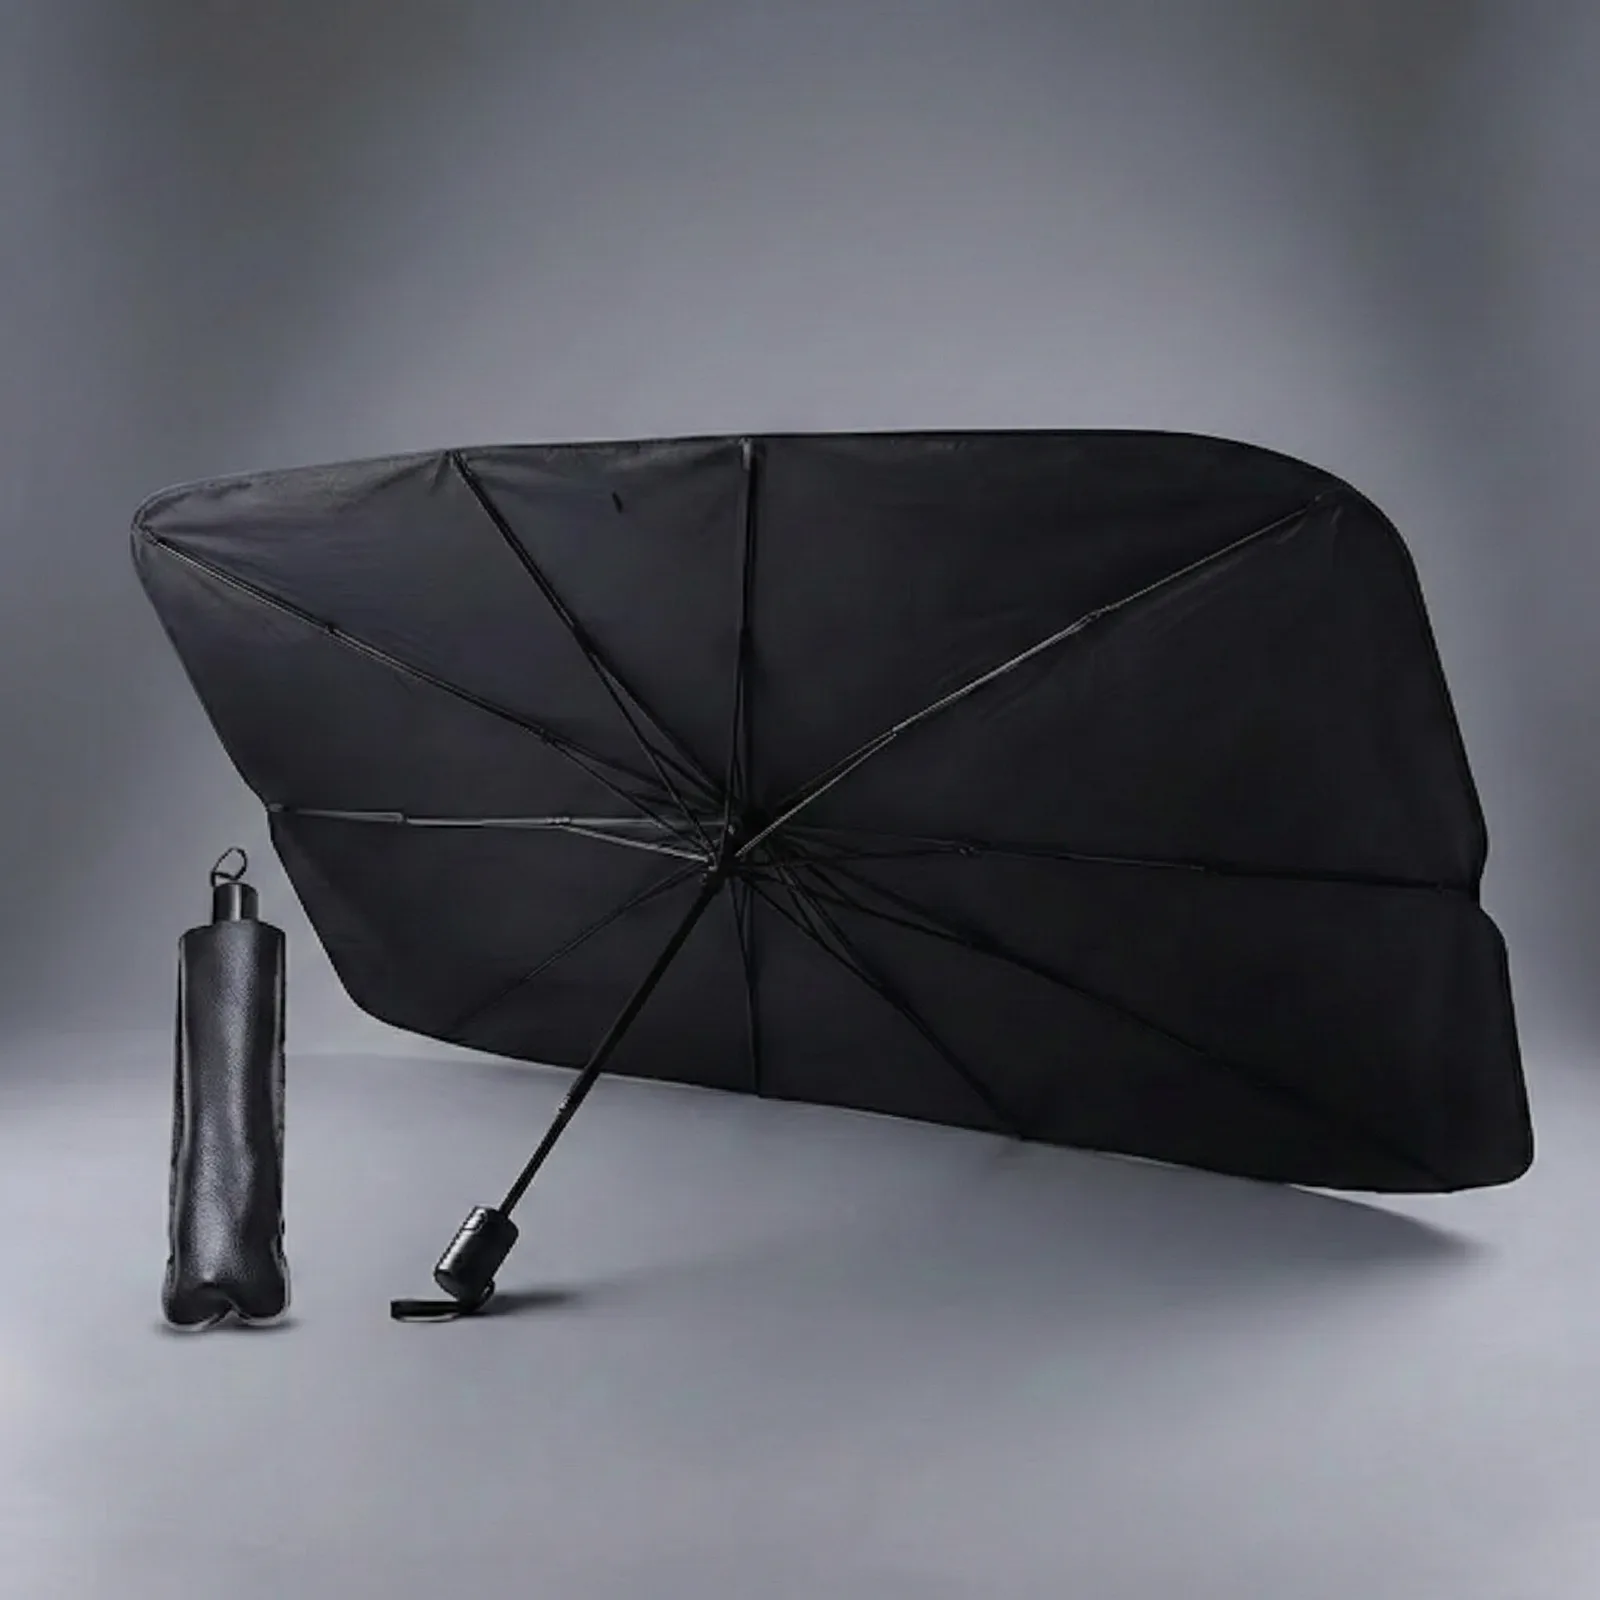
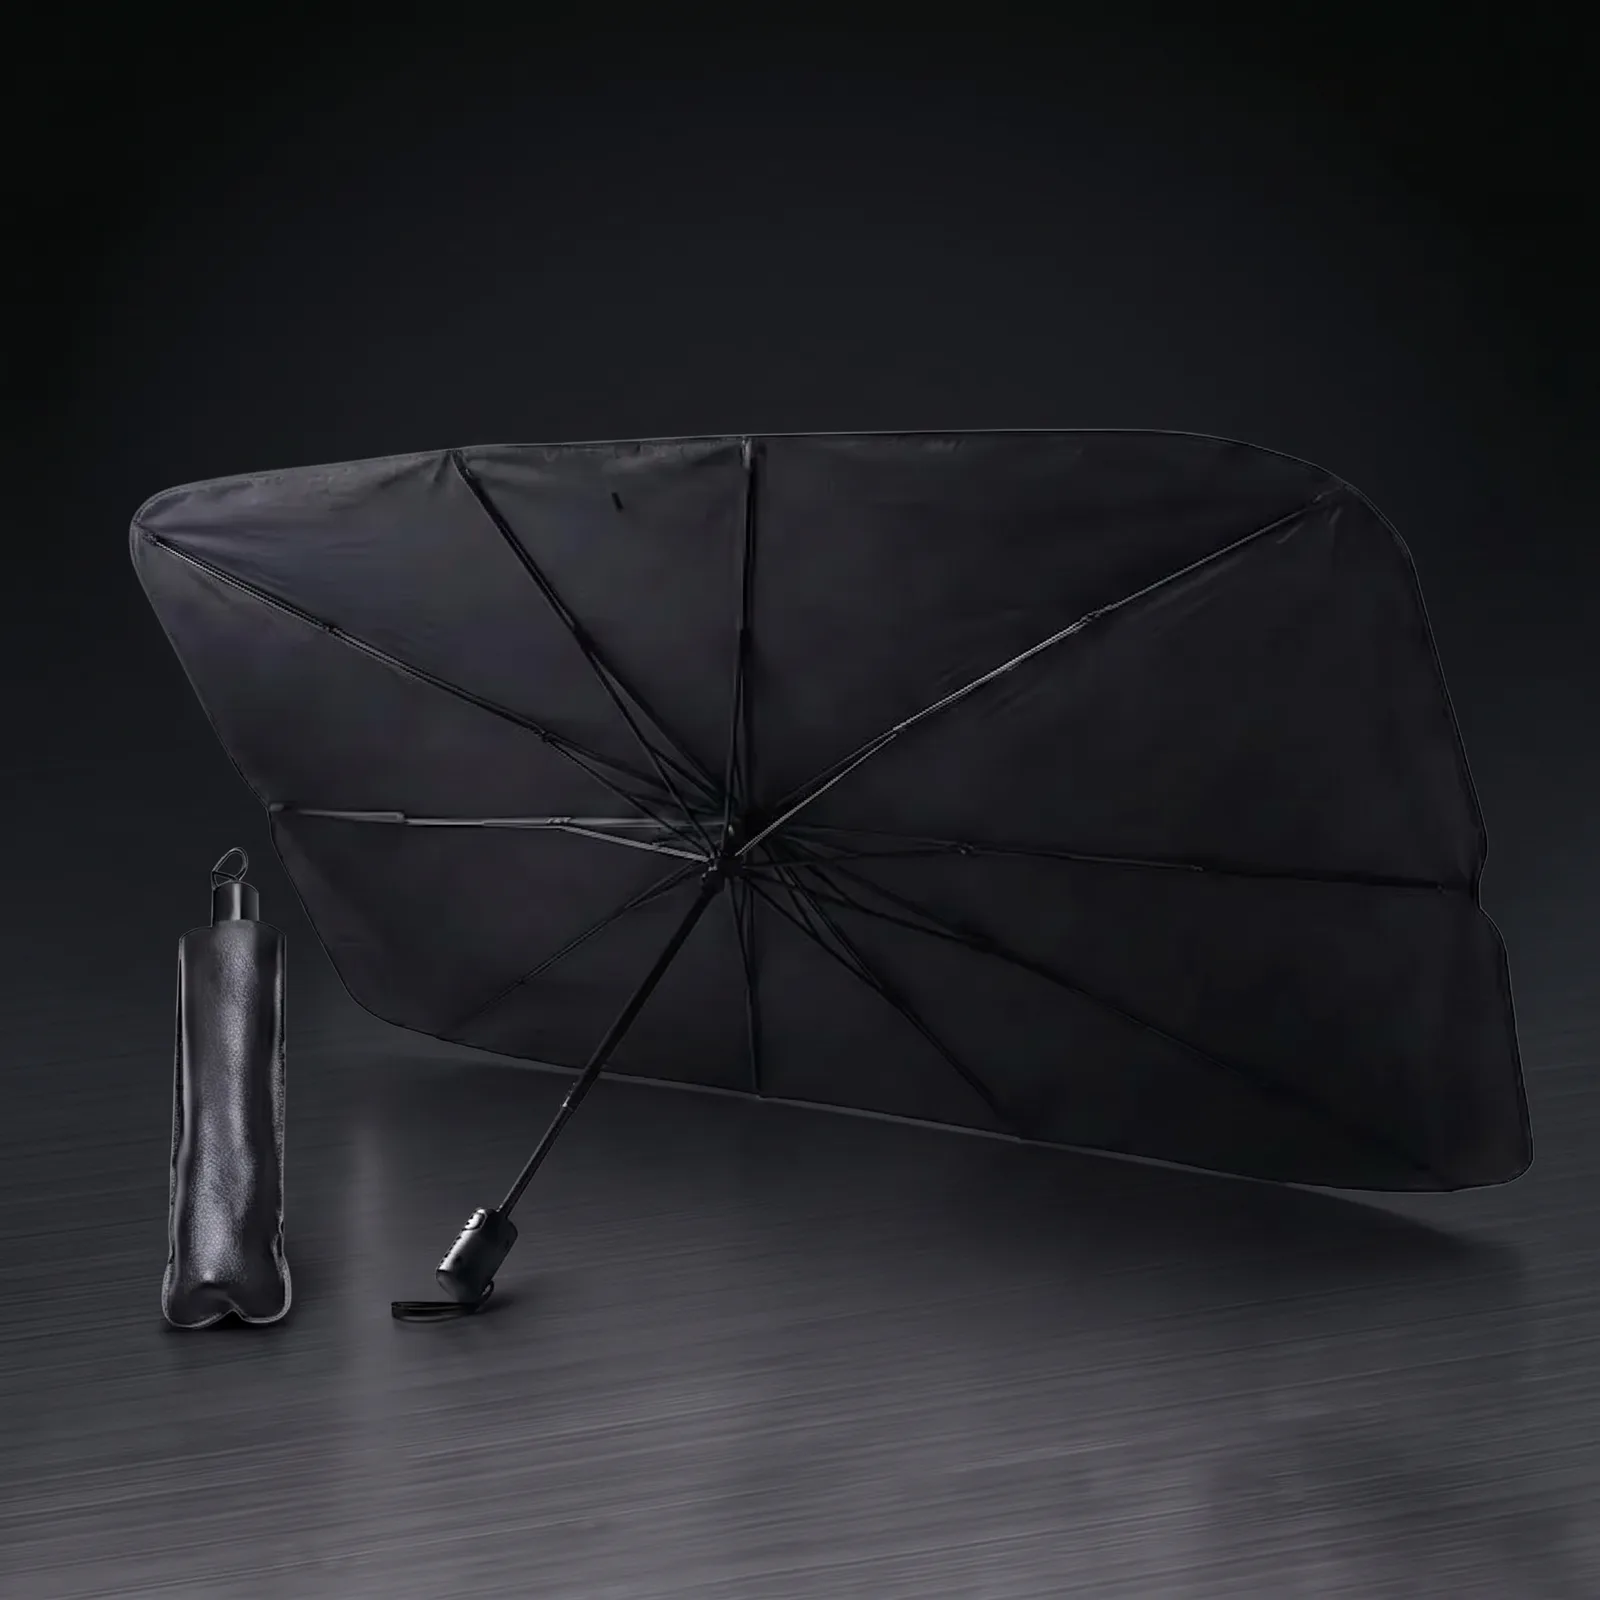
feat(tienda): fotos de producto redondeadas y hero nuevo del parasol
Las fotos van despegadas 8px del borde de la card y con radio propio, así
el redondeo se ve en las cuatro esquinas y no sólo en las de arriba, que
eran las que ya daba el `rounded-2xl` de la card.

Con el radio solo no alcanzaba: el degradado de la caja cerraba en #0F0F10
contra una card en #0A0A0A, prácticamente el mismo negro, así que las
esquinas quedaban invisibles. Ahora cierra en #191B1F y la caja se lee como
una superficie aparte.

Se va el `scale` de la foto en hover: peleaba con el `-translate-y` de la
card y quedaban dos animaciones encimadas. Queda sólo el levantado.

El inset dejó los tags 4px cortos y partían en dos líneas, así que el
padding de esa fila baja de 12 a 8px. Con eso entraban todos menos
"APERTURA EN 3 SEGUNDOS", que pasa a "ABRE EN 3 SEGUNDOS". Medido: los seis
tags en una línea.

Hero del parasol: la imagen nueva viene con fondo oscuro en vez del gris
claro, así que el producto se funde con la página en vez de recortarse
contra un rectángulo gris. De 2048px y 1,6 MB en jpeg a 1600px y 54 KB en
webp. Reemplaza el archivo, así que también cambia en el bloque de
beneficios y en la card de /tienda, que apuntan al mismo lugar.

diff --git a/components/commerce/ProductCard.tsx b/components/commerce/ProductCard.tsx
@@ -49,16 +49,24 @@ export function ProductCard({ product }: { product: StoreProduct }) {
     >
       {/* El contenedor cuadrado reserva el espacio antes de que cargue la
           imagen, así la grilla no salta (mismo patrón que HowItWorks). */}
-      <div className="relative aspect-square w-full overflow-hidden bg-[radial-gradient(circle_at_50%_38%,#26282C,#0F0F10_72%)]">
+      {/* `m-2 mb-0` + radio propio: la foto queda despegada del borde de la
+          card, así el redondeo se ve en las cuatro esquinas y no sólo en las
+          de arriba, que son las que ya daba el `rounded-2xl` de la card.
+          El degradado tiene que cerrar MÁS CLARO que el fondo de la card
+          (#0A0A0A): con el anterior, que terminaba en #0F0F10, las esquinas
+          redondeadas quedaban invisibles por falta de contraste. */}
+      <div className="relative m-2 mb-0 aspect-square overflow-hidden rounded-xl bg-[radial-gradient(circle_at_50%_38%,#31343A,#191B1F_78%)]">
         <Image
           src={product.image}
           alt={product.title}
           fill
           sizes="(max-width: 640px) 50vw, (max-width: 1024px) 33vw, 25vw"
-          className="object-contain p-5 transition duration-500 group-hover:scale-105 sm:p-6"
+          className="object-contain p-5 sm:p-6"
         />
 
-        <div className="pointer-events-none absolute inset-x-0 top-0 flex items-start justify-between gap-2 p-3">
+        {/* p-2 y no p-3: el inset de la foto dejó los tags 4px cortos y
+            partían en dos líneas. */}
+        <div className="pointer-events-none absolute inset-x-0 top-0 flex items-start justify-between gap-2 p-2">
           {/* El tag de spec es largo y en la card de 2 columnas de mobile se
               parte en tres líneas. Ahí queda sólo el de variante. */}
           <span className="hidden sm:block">
@@ -105,14 +113,14 @@ export function ComingSoonCard({
 }) {
   return (
     <div className="flex flex-col overflow-hidden rounded-2xl border border-dashed border-ink-700 bg-ink-950/60">
-      <div className="relative aspect-square w-full overflow-hidden bg-[radial-gradient(circle_at_50%_38%,#1B1C1F,#0C0C0D_72%)]">
+      <div className="relative m-2 mb-0 aspect-square overflow-hidden rounded-xl bg-[radial-gradient(circle_at_50%_38%,#212327,#121316_78%)]">
         {/* Silueta: el mismo cuadrado de una foto, pero vacío */}
         <div className="absolute inset-0 flex items-center justify-center">
           <span className="font-display text-6xl font-black italic text-white/[0.05] sm:text-7xl">
             ?
           </span>
         </div>
-        <div className="absolute inset-x-0 top-0 flex items-start justify-between gap-2 p-3">
+        <div className="absolute inset-x-0 top-0 flex items-start justify-between gap-2 p-2">
           <span className="hidden sm:block">
             <Tag>{specTag}</Tag>
           </span>

diff --git a/lib/config.ts b/lib/config.ts
@@ -294,7 +294,7 @@ export const STORE_PRODUCTS: readonly StoreProduct[] = [
     image: '/parasol/hero/parasol-hero.webp',
     href: '/parasol',
     fallbackPrice: 29990, // TODO PRECIO REAL — espejo de PARASOL.fallbackPricing.price
-    specTag: 'APERTURA EN 3 SEGUNDOS',
+    specTag: 'ABRE EN 3 SEGUNDOS',
     badge: 'UNIVERSAL',
   },
   {
